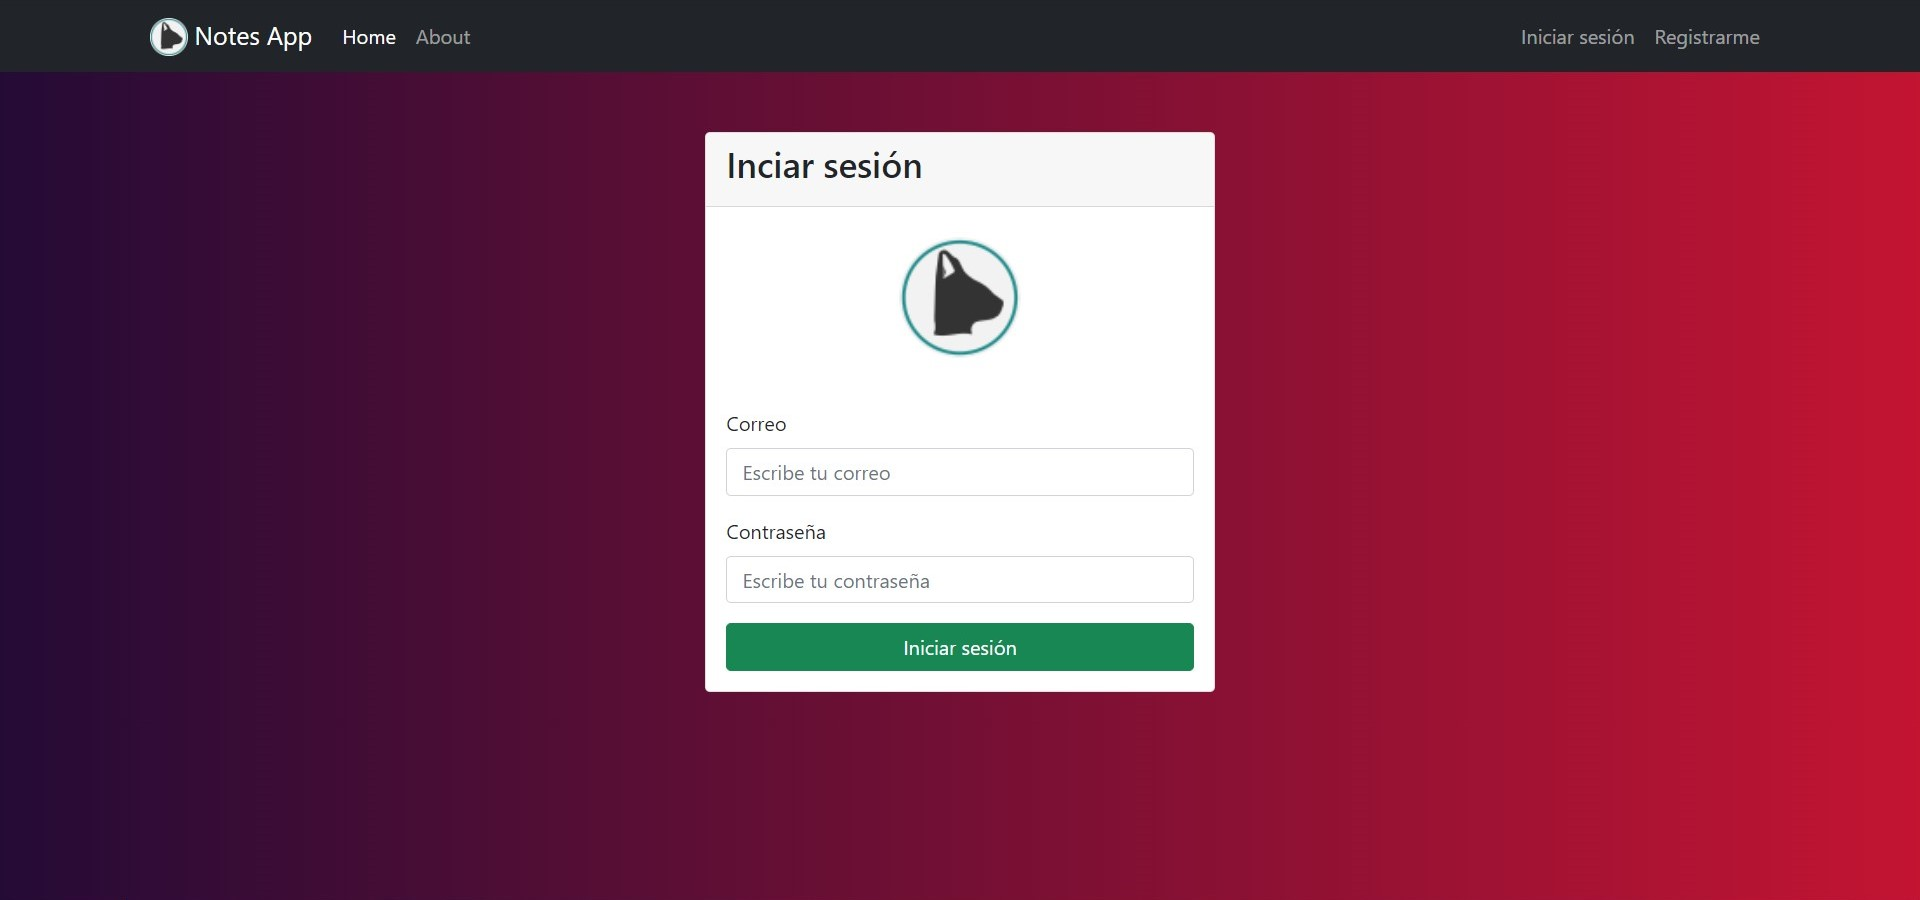
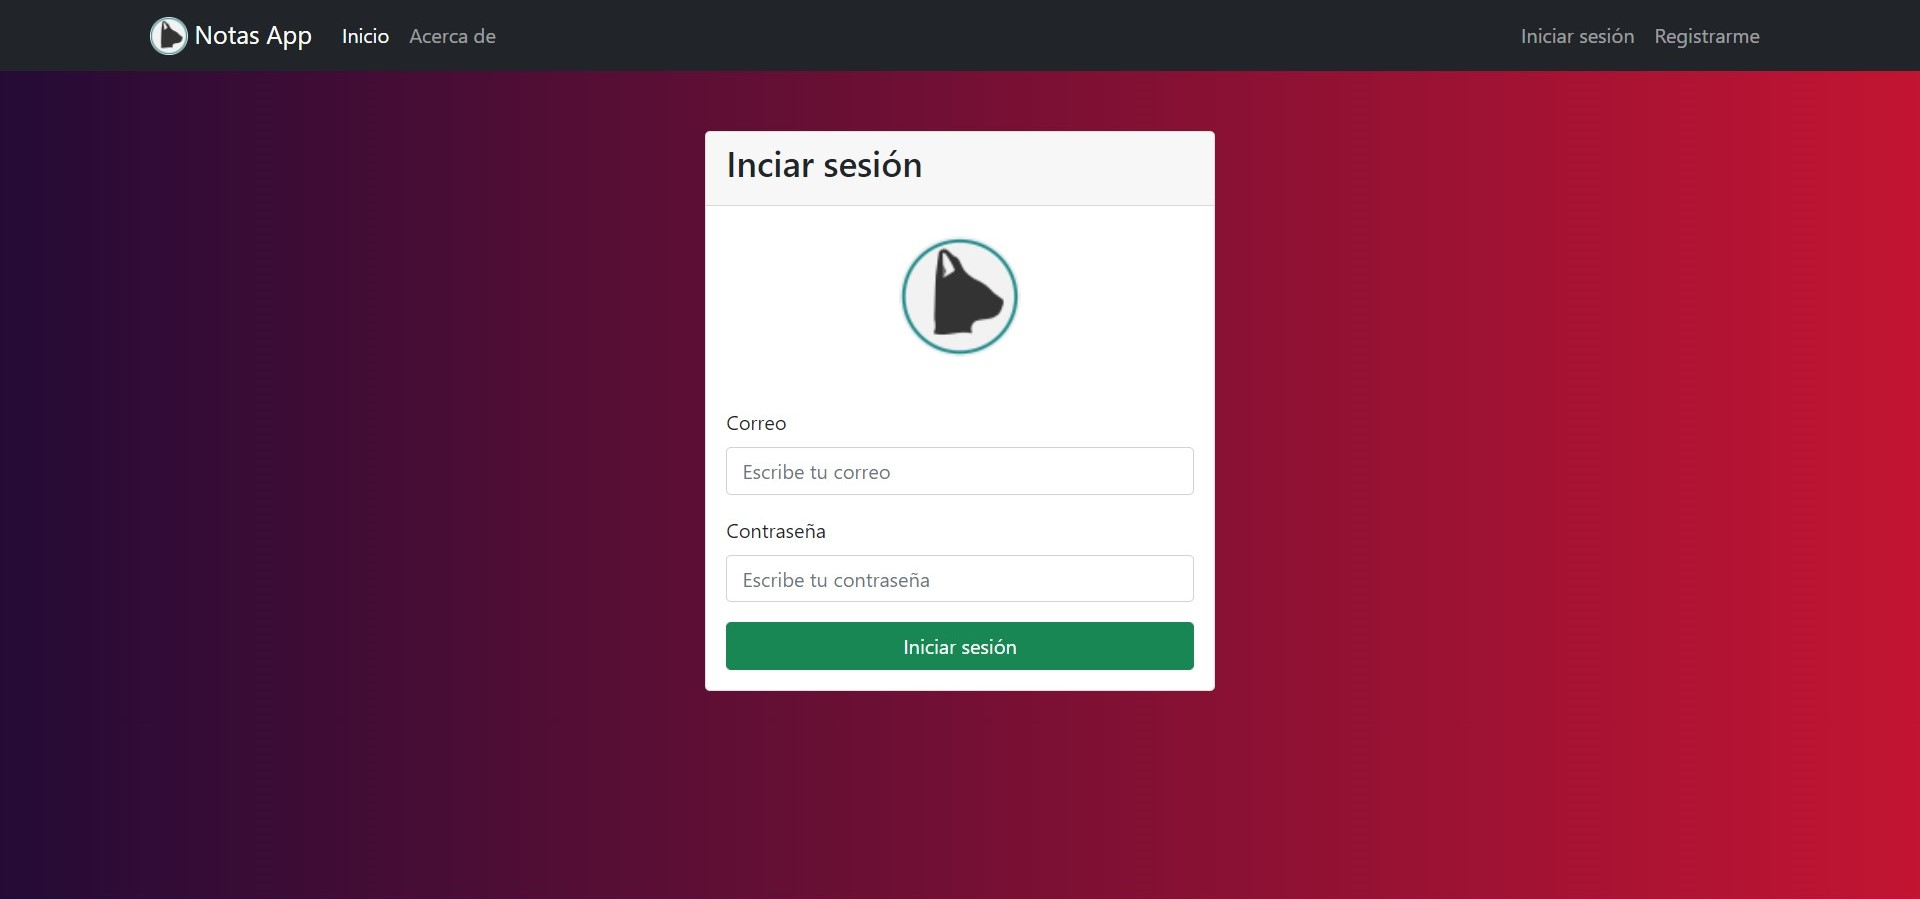
*** Se modifico el README.md y  priviews

diff --git a/README.md b/README.md
@@ -12,5 +12,3 @@ como bcryptjs, connect-flash, express-handlebars, mongoose, etc.
 ![Preview 2](/source/preview02.jpg)
 
 ![Preview 3](/source/preview03.jpg)
-
-![Preview 4](/source/preview04.jpg)
